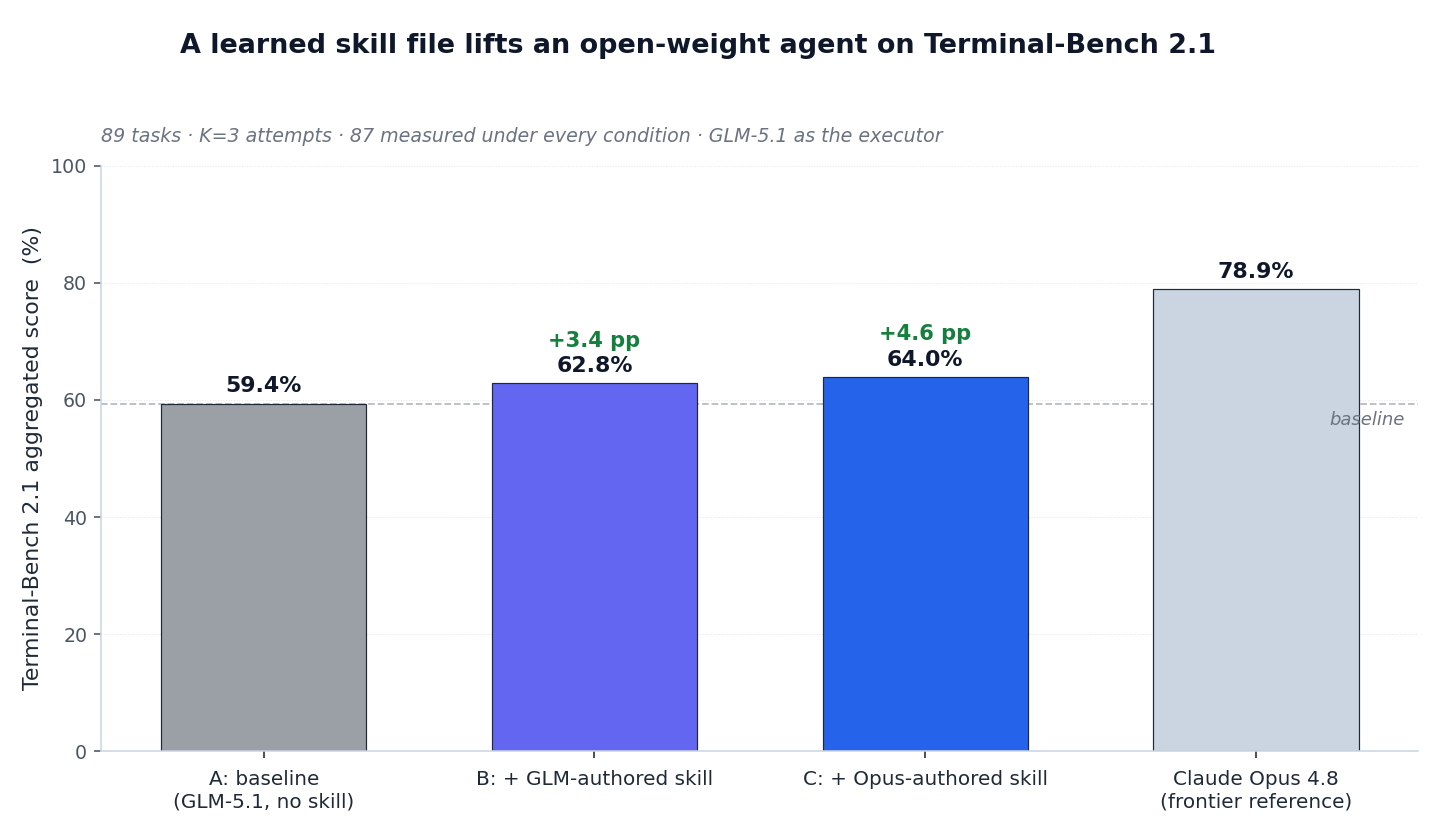
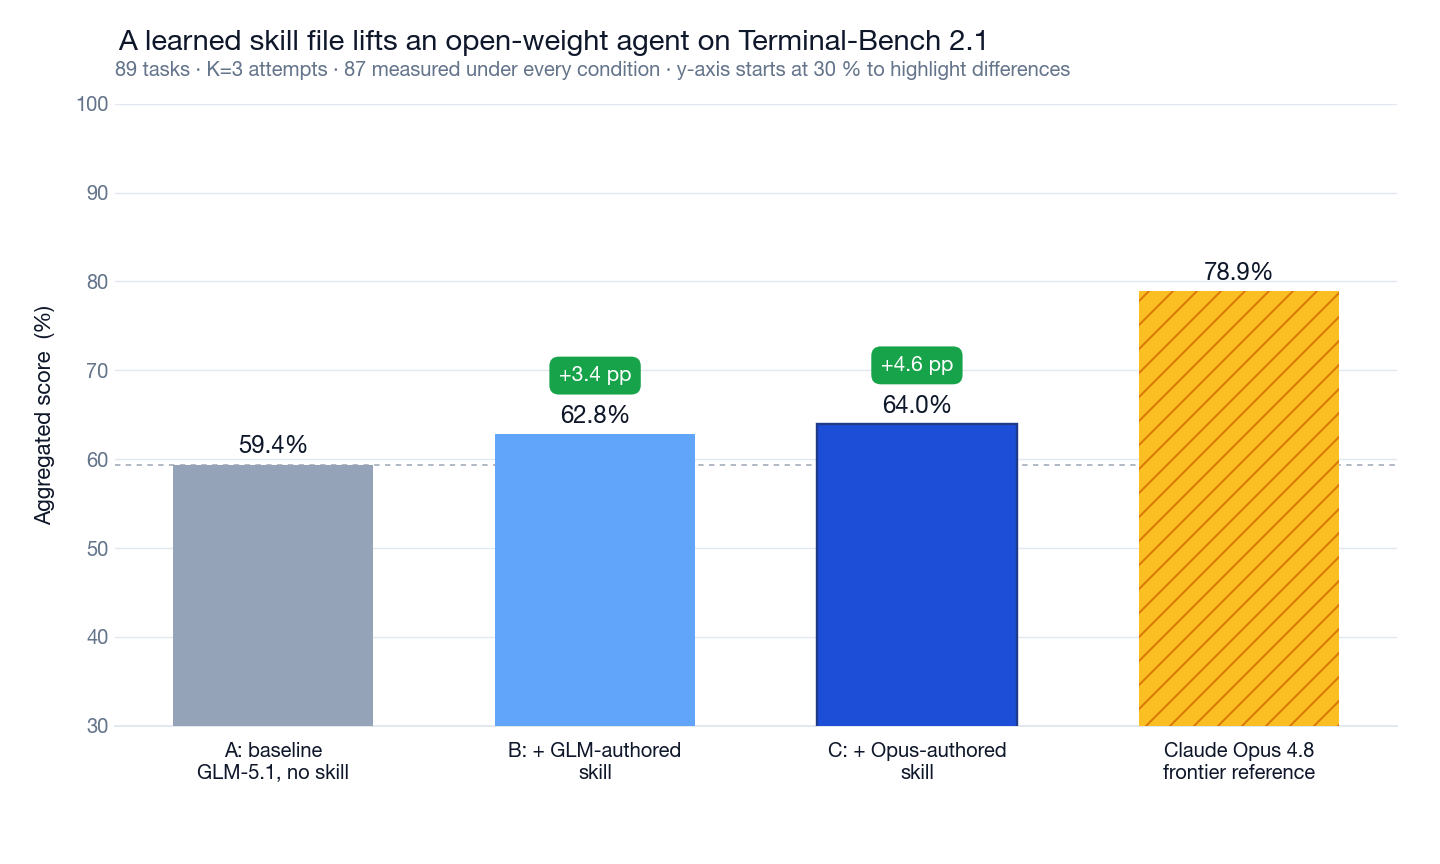
Polish post-1 plot: y-axis from 30, refined palette, better spacing
Per user feedback, two changes:

  1. Y-axis truncated to 30-100 (was 0-100). The differences across
     conditions are 3-19 pp; against a 0-100 scale they were visually
     invisible. The subtitle now explicitly declares the truncation
     ("y-axis starts at 30 % to highlight differences") so the
     framing is honest.

  2. Aesthetic overhaul:
       - Color story: slate-grey for baseline (neutral control),
         light-blue for B (first improvement), deep-blue for C (best
         result, faint dark outline to draw the eye), amber + hatched
         pattern for the frontier reference (clearly external/external).
       - Lift annotations: green pills (white text on green-600 fill,
         rounded boxes) -- the "+3.4 pp" / "+4.6 pp" headline now reads
         at thumbnail size.
       - Removed redundant "open-weight baseline" italic label that
         was overlapping the Opus reference bar -- bar A's "59.4%"
         value label and the dashed line together carry the same
         info more cleanly.
       - Increased pill -> value-label vertical gap (3.8 -> 5.5 pp)
         so they no longer crowd each other.
       - Removed top/right/left axis spines for a cleaner modern look;
         kept a subtle bottom spine in slate-200.
       - Switched font stack to Helvetica Neue / Helvetica / Inter /
         Arial / DejaVu Sans (prefers system fonts where available).
       - Lighter grid lines (slate-200), larger and bolder value
[…]

diff --git a/scripts/plot.py b/scripts/plot.py
@@ -2,8 +2,18 @@
 # SPDX-License-Identifier: Apache-2.0
 """Generate the post-1 accuracy plot from data/canonical-results.json.
 
-Output: assets/post-1-accuracy.png (1200 x 700 px, 144 DPI).
+Output: assets/post-1-accuracy.png (1200 x 720 px, 144 DPI).
 Re-run any time the canonical results regenerate to keep the plot in sync.
+
+Design choices:
+- Y axis truncated at 30 (declared in the subtitle); the differences
+  between conditions are 3-19 pp and look invisible against a 0-100 scale.
+- Two-tone blue family for the skill conditions (B lighter, C darker)
+  to encode "B comes first, C is the better artifact" at a glance.
+- Frontier reference uses a hatched amber fill to signal "external,
+  for comparison" without competing visually with our bars.
+- Lift annotations live in small green pills above the skill bars so
+  the headline "+4.6 pp" reads at thumbnail size.
 
 Usage::
 
@@ -22,63 +32,102 @@ DATA = ROOT / "data"
 ASSETS = ROOT / "assets"
 ASSETS.mkdir(exist_ok=True)
 
+# Use the nicest system sans-serif available
+plt.rcParams.update({
+    "font.family": "sans-serif",
+    "font.sans-serif": ["Helvetica Neue", "Helvetica", "Inter", "Arial", "DejaVu Sans"],
+    "axes.titlesize": 14,
+    "axes.labelsize": 11,
+})
+
+# Color palette
+COLOR_BASELINE = "#94a3b8"   # slate-400  -- neutral control
+COLOR_B        = "#60a5fa"   # blue-400   -- first skill condition
+COLOR_C        = "#1d4ed8"   # blue-700   -- best skill condition (our headline)
+COLOR_FRONTIER = "#fbbf24"   # amber-400  -- external reference
+COLOR_LIFT     = "#16a34a"   # green-600  -- positive delta pill
+COLOR_TEXT     = "#0f172a"   # slate-900
+COLOR_MUTED    = "#64748b"   # slate-500
+COLOR_GRID     = "#e2e8f0"   # slate-200
+
 
 def main() -> int:
     canon = json.loads((DATA / "canonical-results.json").read_text())
     frontier = canon["frontier_reference"]
-    bars = [
-        ("A: baseline\n(GLM-5.1, no skill)", 100 * canon["configs"]["A_baseline"]["aggregate_over_measured"], "#9aa0a6"),
-        ("B: + GLM-authored skill",          100 * canon["configs"]["B_GLM_skill"]["aggregate_over_measured"], "#6366f1"),
-        ("C: + Opus-authored skill",         100 * canon["configs"]["C_Opus_skill"]["aggregate_over_measured"], "#2563eb"),
-        (f"{frontier['name'].split(' on')[0]}\n(frontier reference)", 100 * frontier["pass_rate"], "#cbd5e1"),
+    series = [
+        ("A: baseline\nGLM-5.1, no skill",     100 * canon["configs"]["A_baseline"]["aggregate_over_measured"],   COLOR_BASELINE, None),
+        ("B: + GLM-authored\nskill",            100 * canon["configs"]["B_GLM_skill"]["aggregate_over_measured"],  COLOR_B,        None),
+        ("C: + Opus-authored\nskill",           100 * canon["configs"]["C_Opus_skill"]["aggregate_over_measured"], COLOR_C,        None),
+        (f"{frontier['name'].split(' on')[0]}\nfrontier reference",  100 * frontier["pass_rate"],                  COLOR_FRONTIER, "//"),
     ]
-    baseline_val = bars[0][1]
+    labels, values, colors, hatches = zip(*series)
+    baseline_val = values[0]
 
-    fig, ax = plt.subplots(figsize=(10, 5.8), dpi=144)
-    labels, values, colors = zip(*bars)
-    bar_artists = ax.bar(labels, values, color=colors, edgecolor="#1f2937", linewidth=0.6, width=0.62)
+    fig, ax = plt.subplots(figsize=(10, 6), dpi=144)
+    fig.patch.set_facecolor("white")
+
+    # Bars
+    bar_artists = ax.bar(
+        labels, values,
+        color=colors, edgecolor="white", linewidth=0,
+        width=0.62, zorder=3,
+    )
+    # Hatch the frontier-reference bar to mark it as external
+    for bar, hatch in zip(bar_artists, hatches):
+        if hatch:
+            bar.set_hatch(hatch)
+            bar.set_edgecolor("#d97706")  # amber-600 hatch lines
+            bar.set_linewidth(0)
+    # Slightly subtle outline on the headline (C) bar to draw the eye
+    bar_artists[2].set_edgecolor("#1e3a8a")
+    bar_artists[2].set_linewidth(1.2)
 
     # Value labels on top of each bar
     for bar, val in zip(bar_artists, values):
-        ax.text(bar.get_x() + bar.get_width()/2, val + 1.2, f"{val:.1f}%",
-                ha="center", va="bottom", fontsize=11, fontweight="bold", color="#0f172a")
+        ax.text(
+            bar.get_x() + bar.get_width()/2, val + 0.7, f"{val:.1f}%",
+            ha="center", va="bottom", fontsize=12, fontweight="bold", color=COLOR_TEXT, zorder=5,
+        )
 
-    # Lift annotations above the skill bars (B and C)
+    # Lift pills above the skill bars (B and C) -- offset enough to clear the value label
     for i in (1, 2):
         delta = values[i] - baseline_val
         ax.annotate(
-            f"+{delta:.1f} pp", xy=(i, values[i] + 5.5), ha="center", va="bottom",
-            fontsize=10.5, color="#15803d", fontweight="bold",
+            f"+{delta:.1f} pp",
+            xy=(i, values[i] + 5.5),
+            ha="center", va="bottom",
+            fontsize=10.5, color="white", fontweight="bold",
+            bbox=dict(boxstyle="round,pad=0.45", facecolor=COLOR_LIFT, edgecolor="none"),
+            zorder=6,
         )
 
-    # Dashed line at baseline level to anchor the reader's eye
-    ax.axhline(baseline_val, linestyle="--", linewidth=0.9, color="#9aa0a6", alpha=0.7, zorder=0)
-    ax.text(3.45, baseline_val - 1.2, "baseline", ha="right", va="top", fontsize=9, color="#6b7280", style="italic")
+    # Dashed baseline reference line (no inline label -- bar A's "59.4 %" value label already names it)
+    ax.axhline(baseline_val, linestyle=(0, (3, 3)), linewidth=0.9, color=COLOR_MUTED, alpha=0.55, zorder=1)
 
-    # Axes & spines
-    ax.set_ylabel("Terminal-Bench 2.1 aggregated score  (%)", fontsize=11, color="#1f2937")
-    ax.set_ylim(0, 100)
-    ax.set_yticks(range(0, 101, 20))
-    ax.tick_params(axis="y", labelsize=9.5, colors="#4b5563")
-    ax.tick_params(axis="x", labelsize=10, colors="#1f2937", pad=6)
-    for spine in ("top", "right"):
+    # Axes
+    ax.set_ylabel("Aggregated score  (%)", fontsize=11, color=COLOR_TEXT, labelpad=10)
+    ax.set_ylim(30, 100)
+    ax.set_yticks(range(30, 101, 10))
+    ax.tick_params(axis="y", labelsize=10, colors=COLOR_MUTED, length=0)
+    ax.tick_params(axis="x", labelsize=10, colors=COLOR_TEXT, pad=8, length=0)
+    for spine in ("top", "right", "left"):
         ax.spines[spine].set_visible(False)
-    for spine in ("left", "bottom"):
-        ax.spines[spine].set_color("#cbd5e1")
-    ax.grid(axis="y", linestyle=":", linewidth=0.5, color="#e5e7eb", zorder=0)
+    ax.spines["bottom"].set_color(COLOR_GRID)
+    ax.spines["bottom"].set_linewidth(1)
+    ax.grid(axis="y", linestyle="-", linewidth=0.7, color=COLOR_GRID, zorder=0)
     ax.set_axisbelow(True)
 
-    # Title + subtitle (title above, subtitle below — standard convention)
+    # Title + subtitle (title first, subtitle below — note the y-axis truncation here)
     fig.suptitle(
         "A learned skill file lifts an open-weight agent on Terminal-Bench 2.1",
-        fontsize=13.5, fontweight="bold", color="#0f172a", x=0.125, y=0.96, ha="left",
+        fontsize=14.5, fontweight="bold", color=COLOR_TEXT, x=0.082, y=0.965, ha="left",
     )
     ax.set_title(
-        "89 tasks · K=3 attempts · 87 measured under every condition · GLM-5.1 as the executor",
-        fontsize=9.5, color="#6b7280", style="italic", pad=12, loc="left",
+        "89 tasks · K=3 attempts · 87 measured under every condition · y-axis starts at 30 % to highlight differences",
+        fontsize=10, color=COLOR_MUTED, style="italic", pad=14, loc="left",
     )
 
-    plt.tight_layout(rect=(0, 0, 1, 0.93))
+    plt.subplots_adjust(left=0.08, right=0.97, top=0.88, bottom=0.16)
     out = ASSETS / "post-1-accuracy.png"
     plt.savefig(out, dpi=144, facecolor="white")
     print(f"Wrote {out}")